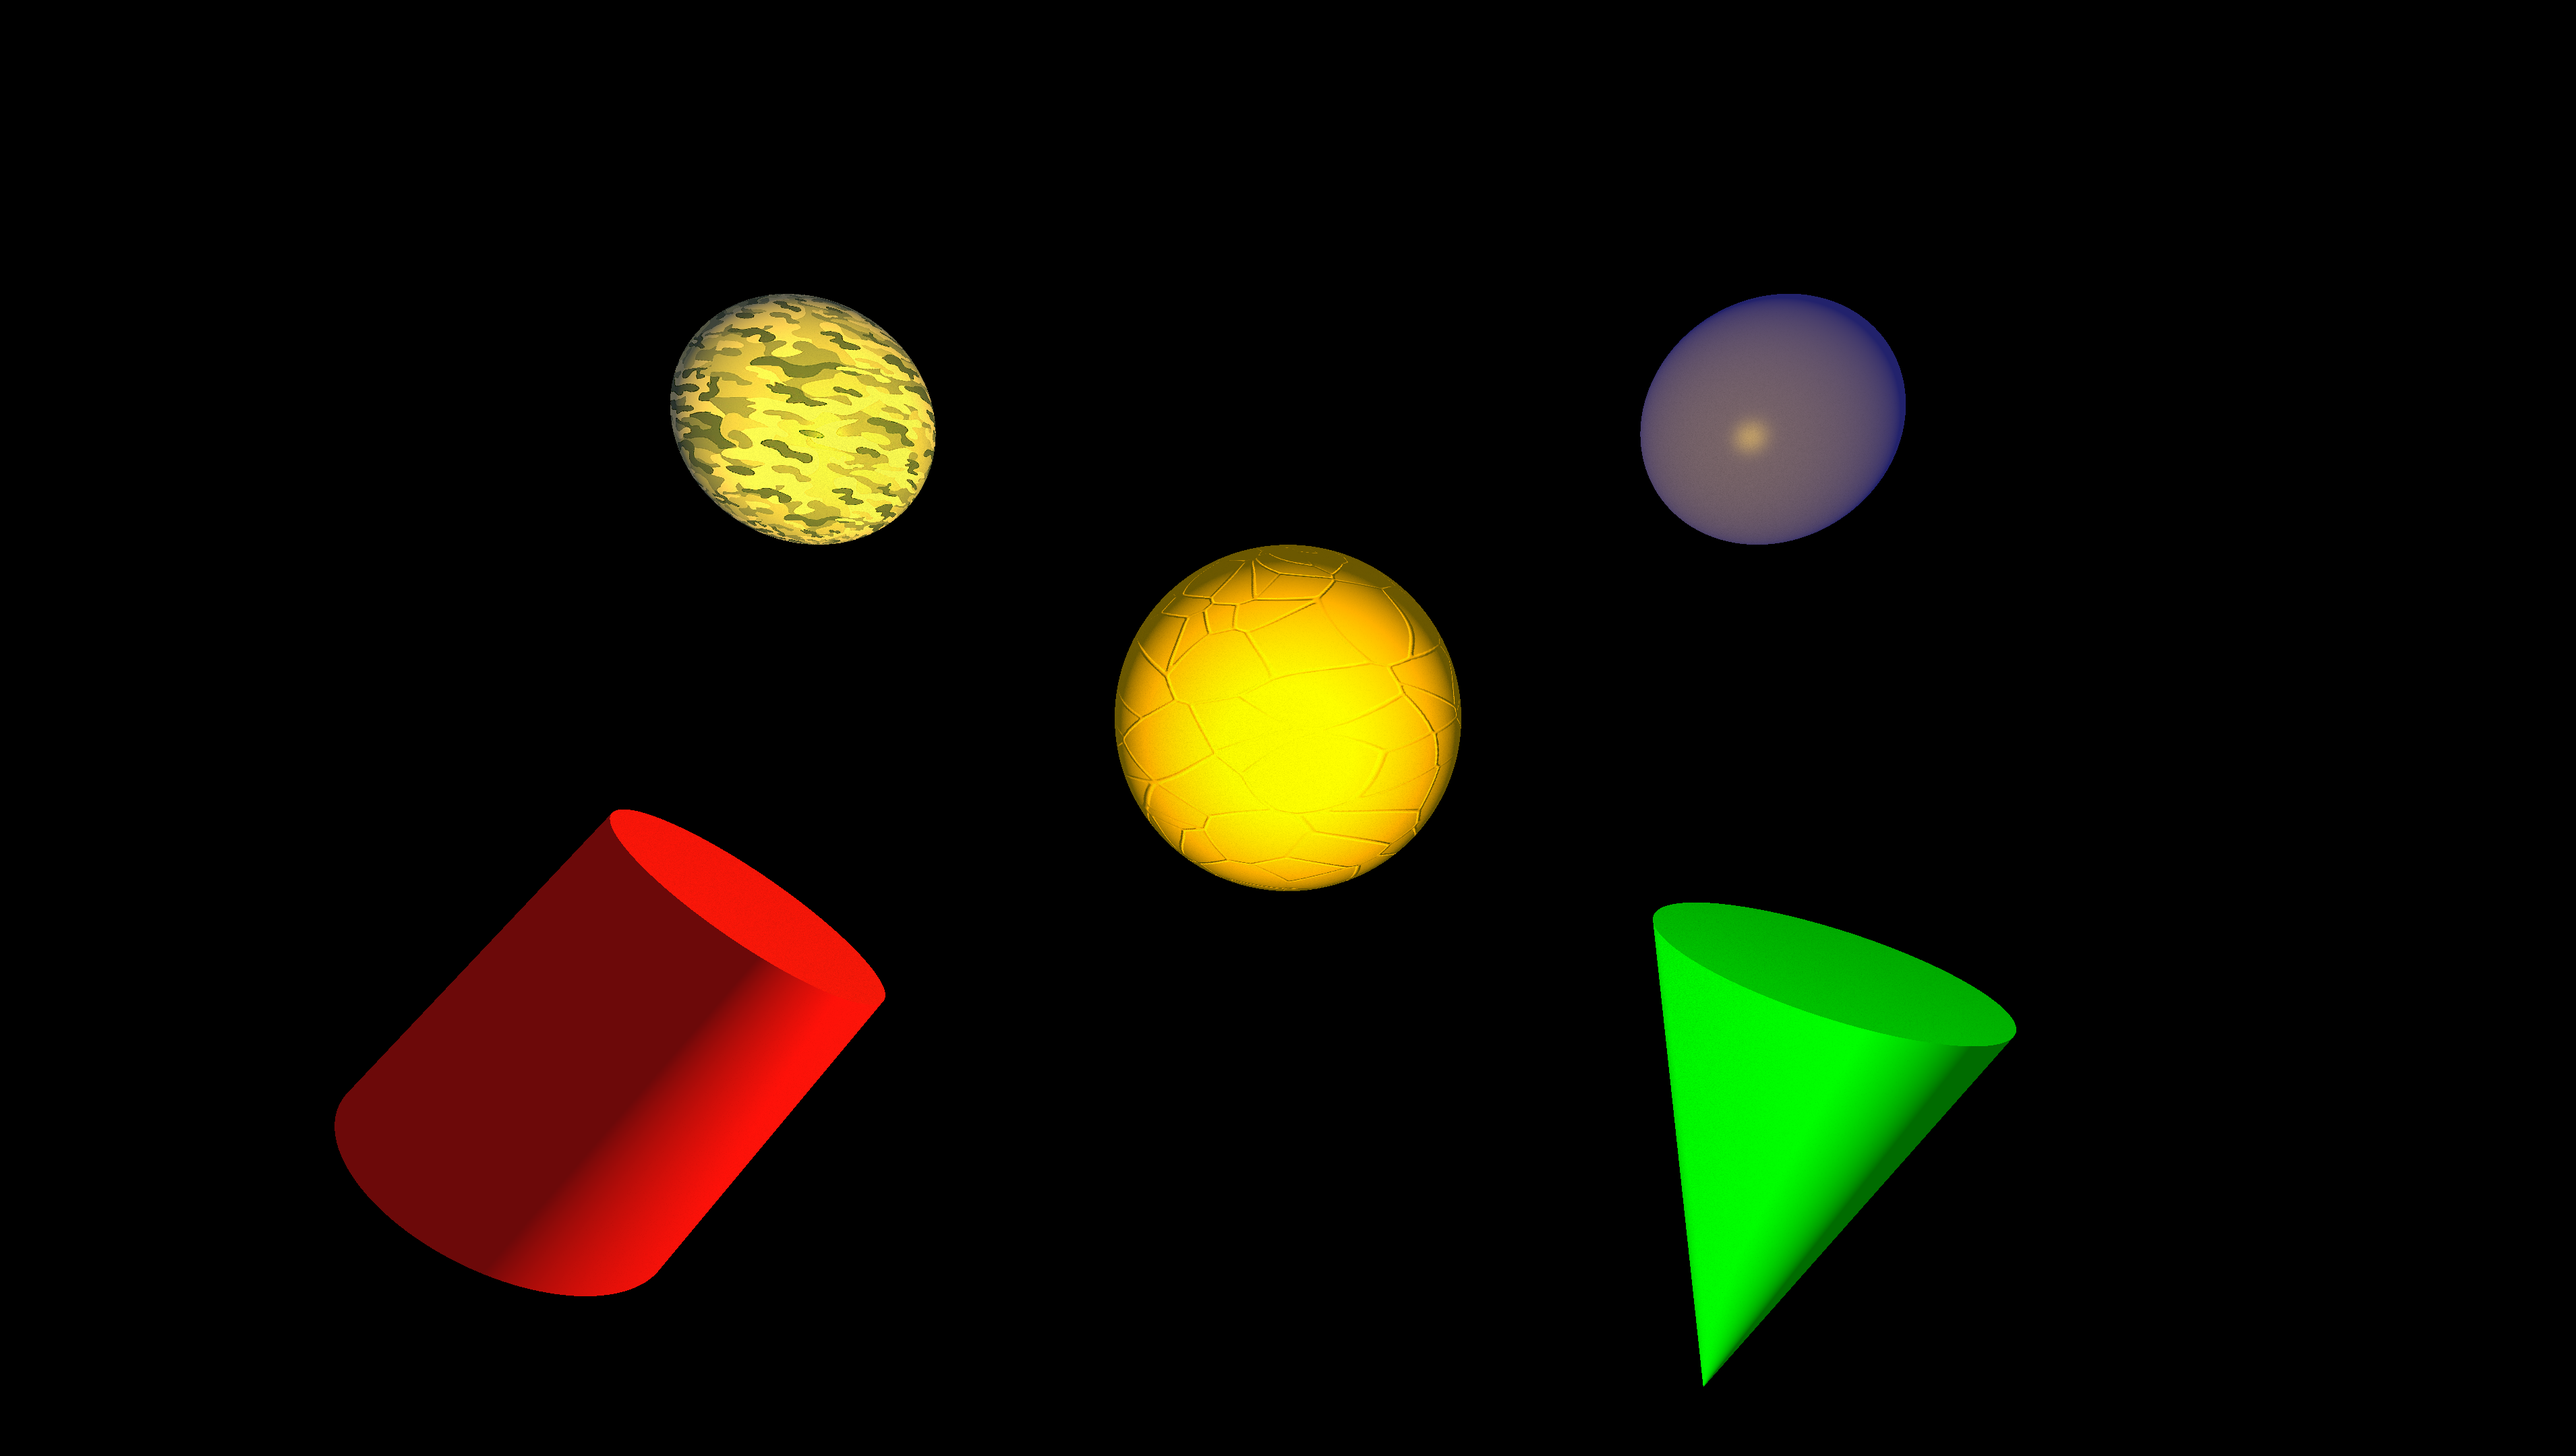
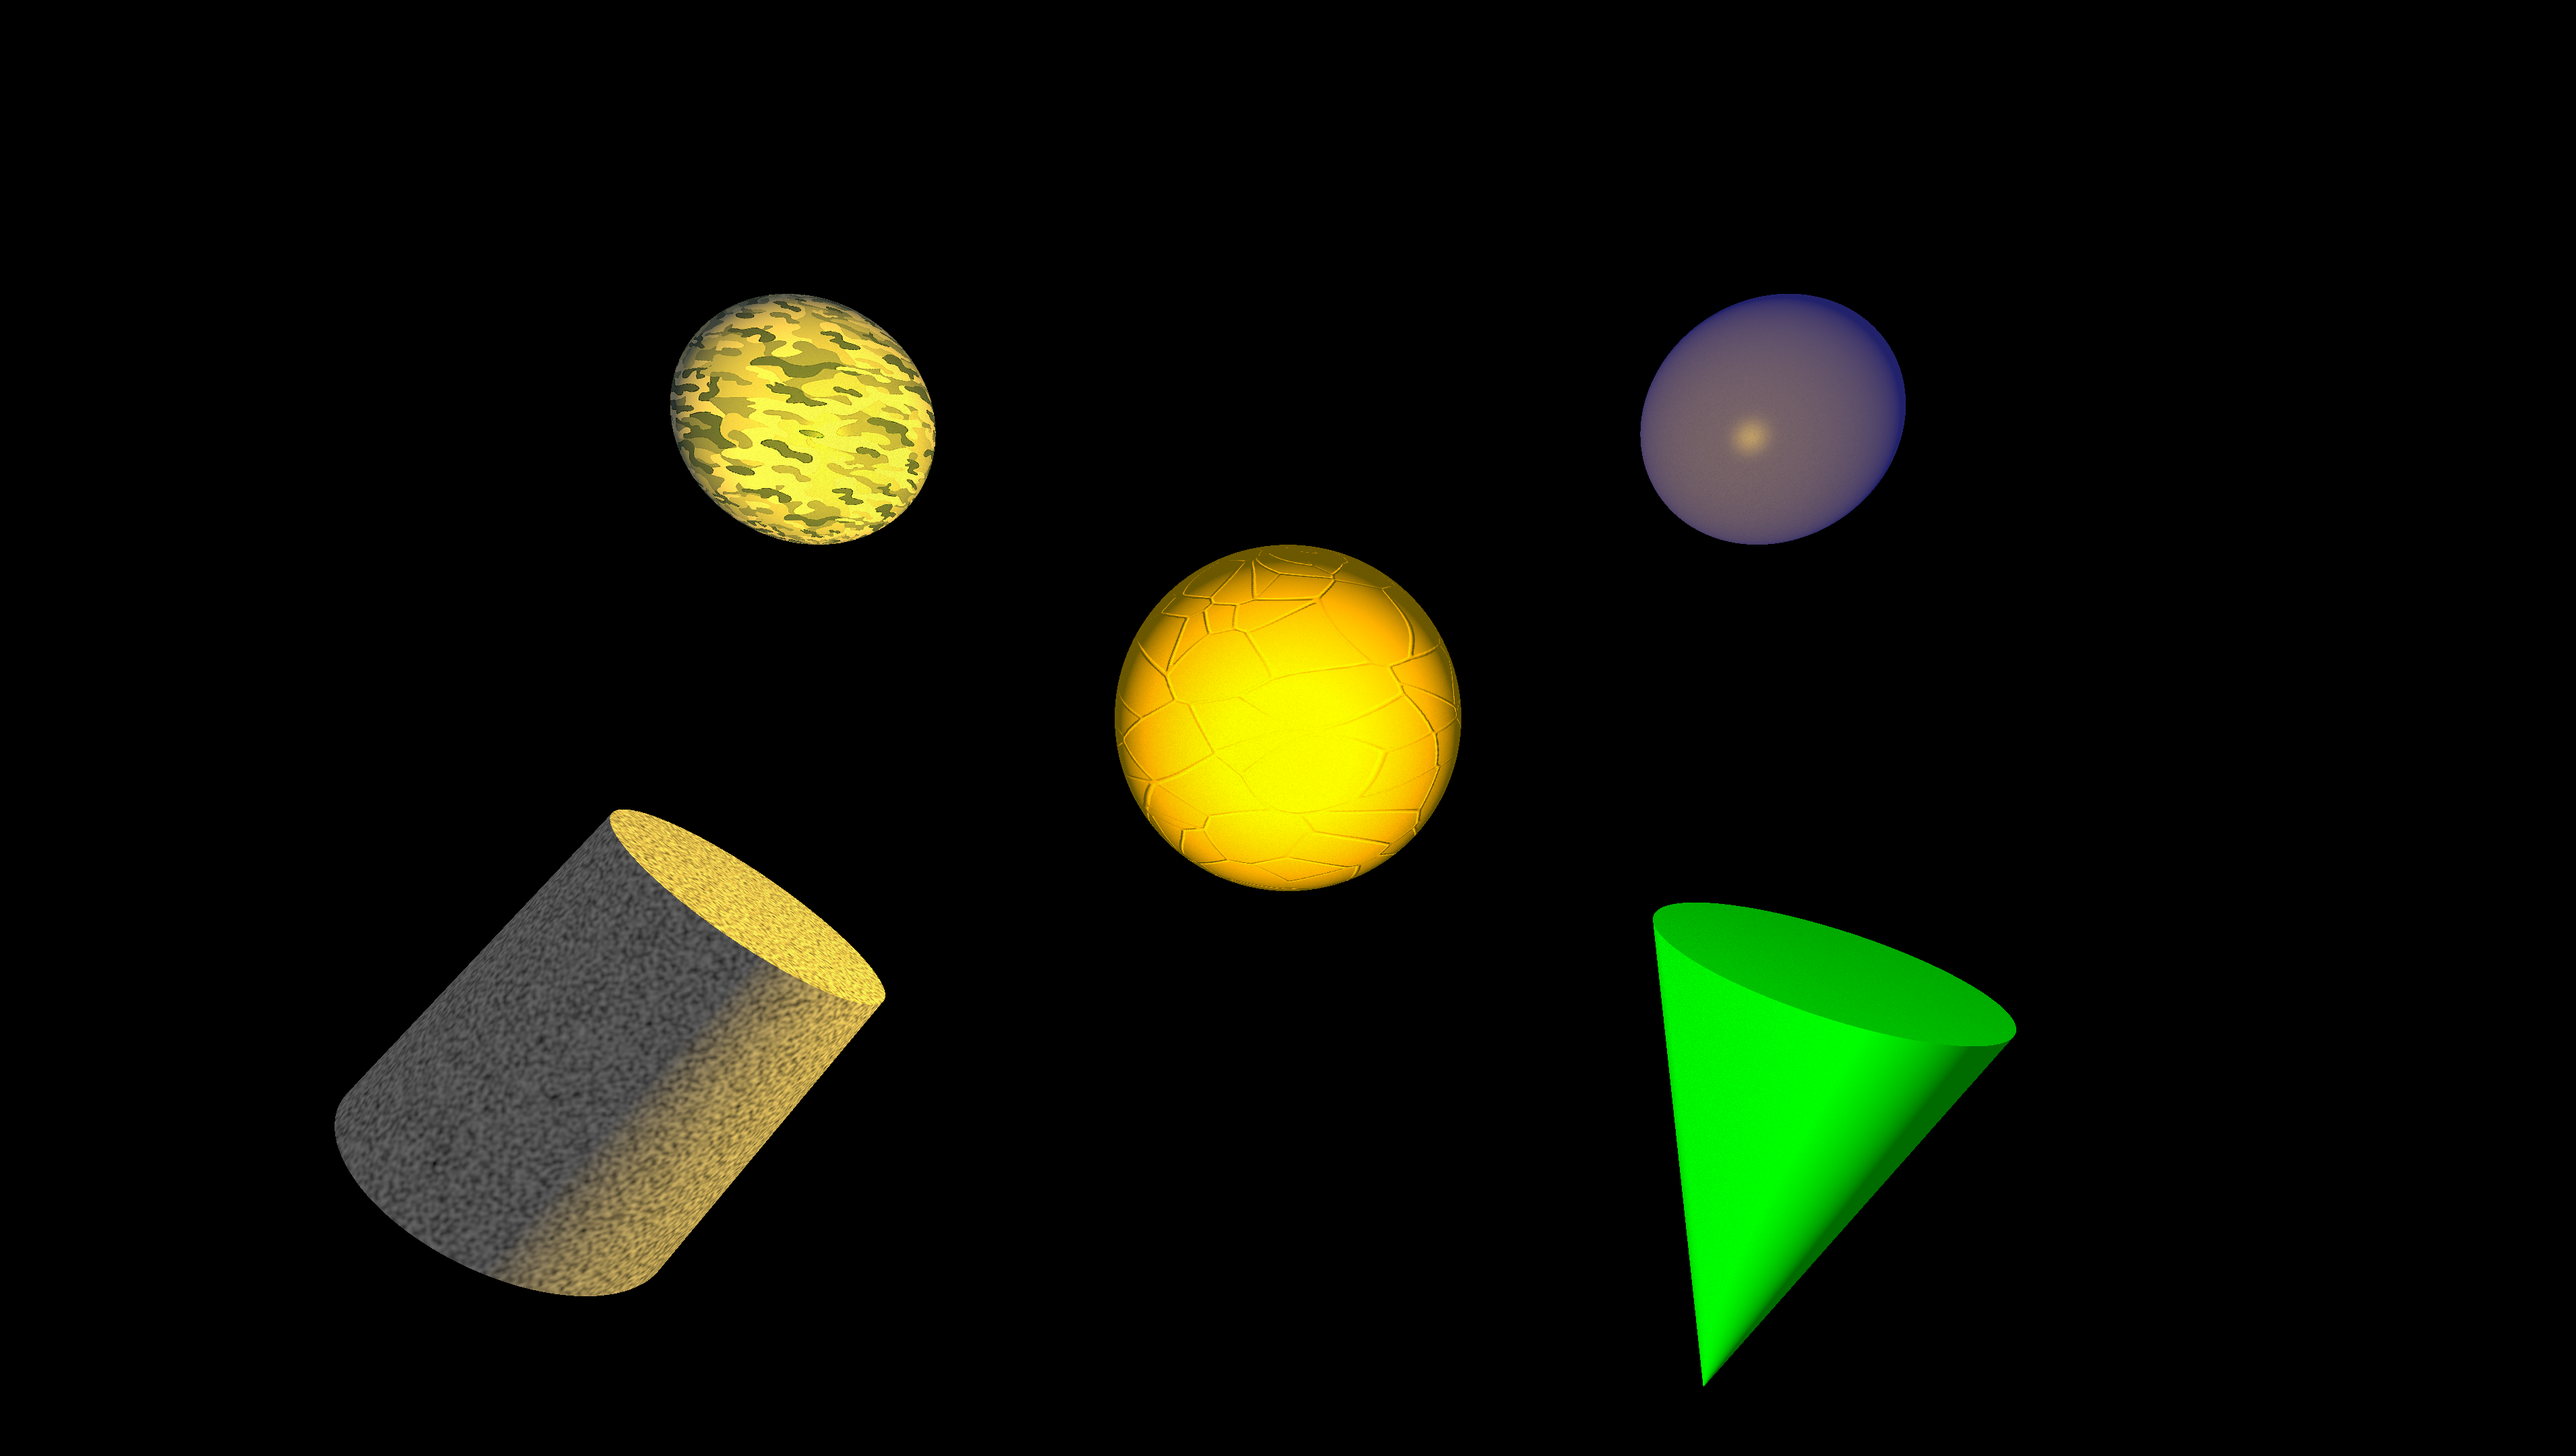
[ADD] Perlin Noise to Space

Changed region(s): [[0.1246, 0.5583, 0.3427, 0.8995]]

diff --git a/renders/Space.md b/renders/Space.md
@@ -8,7 +8,7 @@ At the center is a **large yellow-orange sphere** representing a **sun**, enhanc
 Surrounding it are several objects showcasing different rendering techniques:
 - A **camouflaged sphere** using a texture file (top-left)
 - A **flat blue sphere** (top-right)
-- A **flat red limited cylinder** (bottom-left)
+- A **perlin noise textured limited cylinder** (bottom-left)
 - A **flat green limited cone** (bottom-right)
 
 Lighting includes a **white ambient light** for soft global illumination and a **bright point light** focused on the central sun. The scene uses **adaptive antialiasing**, **Phong shading**, and **ambient occlusion**, rendered in **4K** with a **70° FOV**.
@@ -17,9 +17,10 @@ Lighting includes a **white ambient light** for soft global illumination and a *
 - Sphere with:
   - Normal map (sun-like texture)
 - Textured sphere (camo file texture)
+- Perlin noise texture (cylinder)
 - Flat-colored sphere (blue)
 - Limited primitives:
-  - Cylinder (red)
+  - Cylinder (perlin noise)
   - Cone (green)
 - Point light (high intensity)
 - Ambient light (white)
